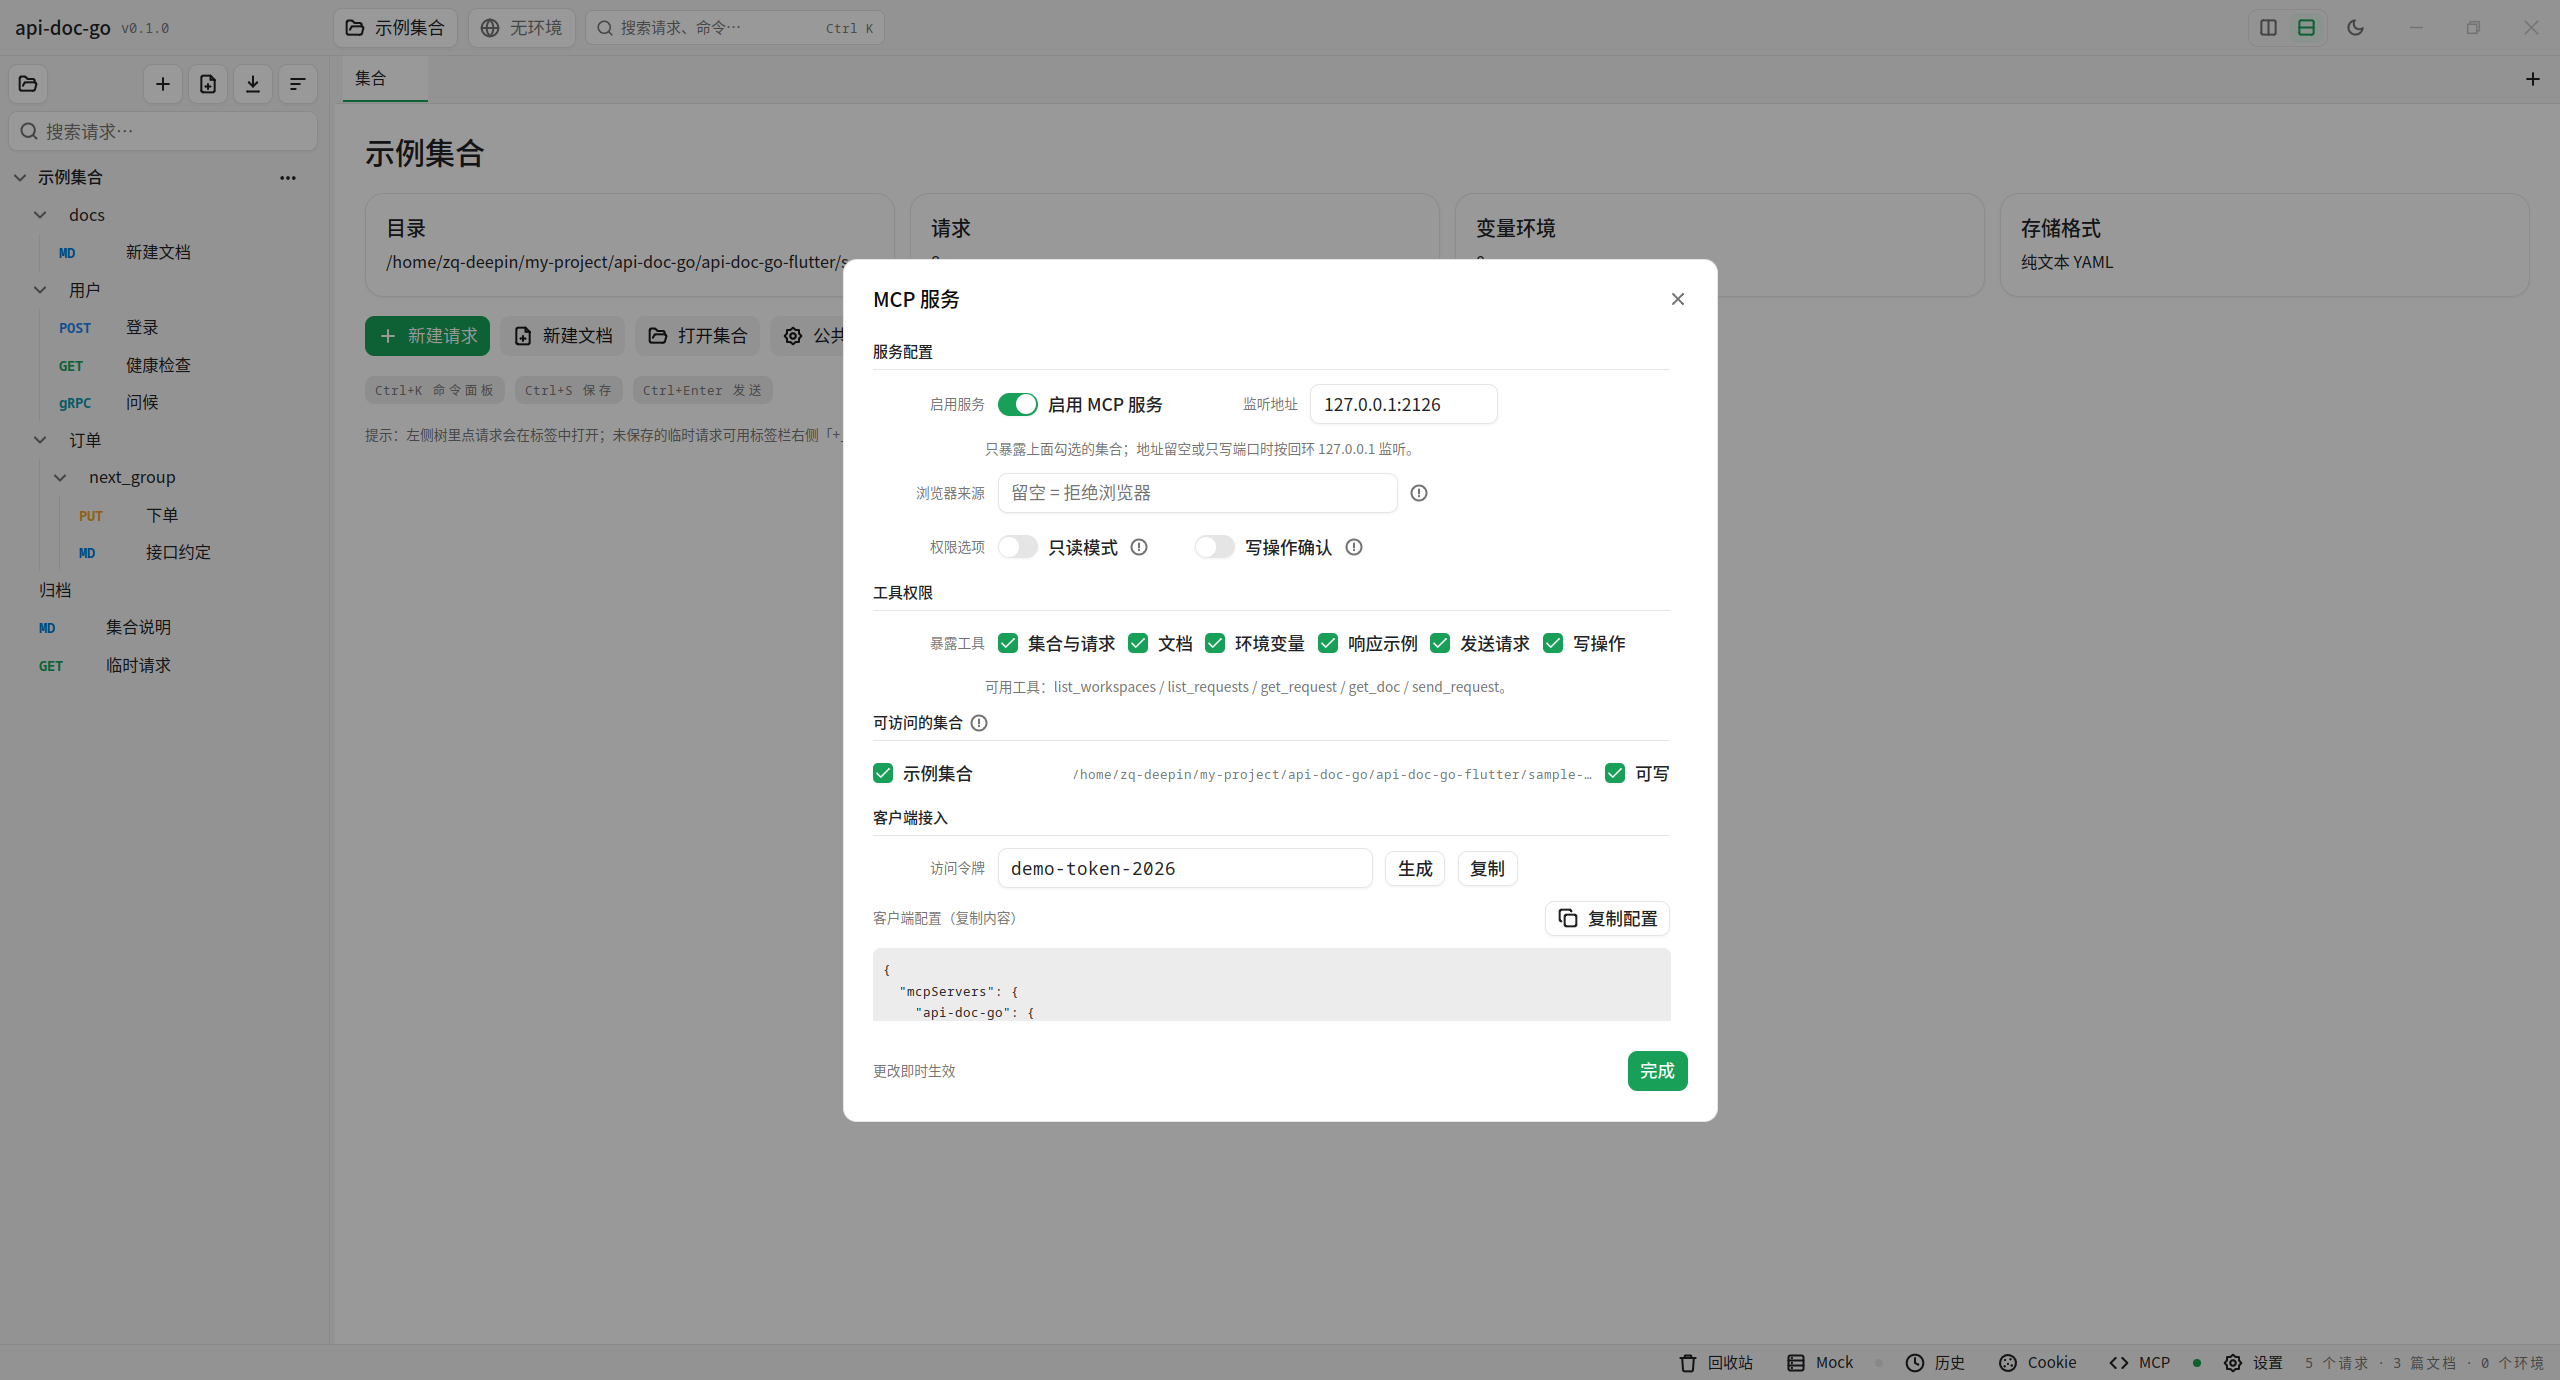
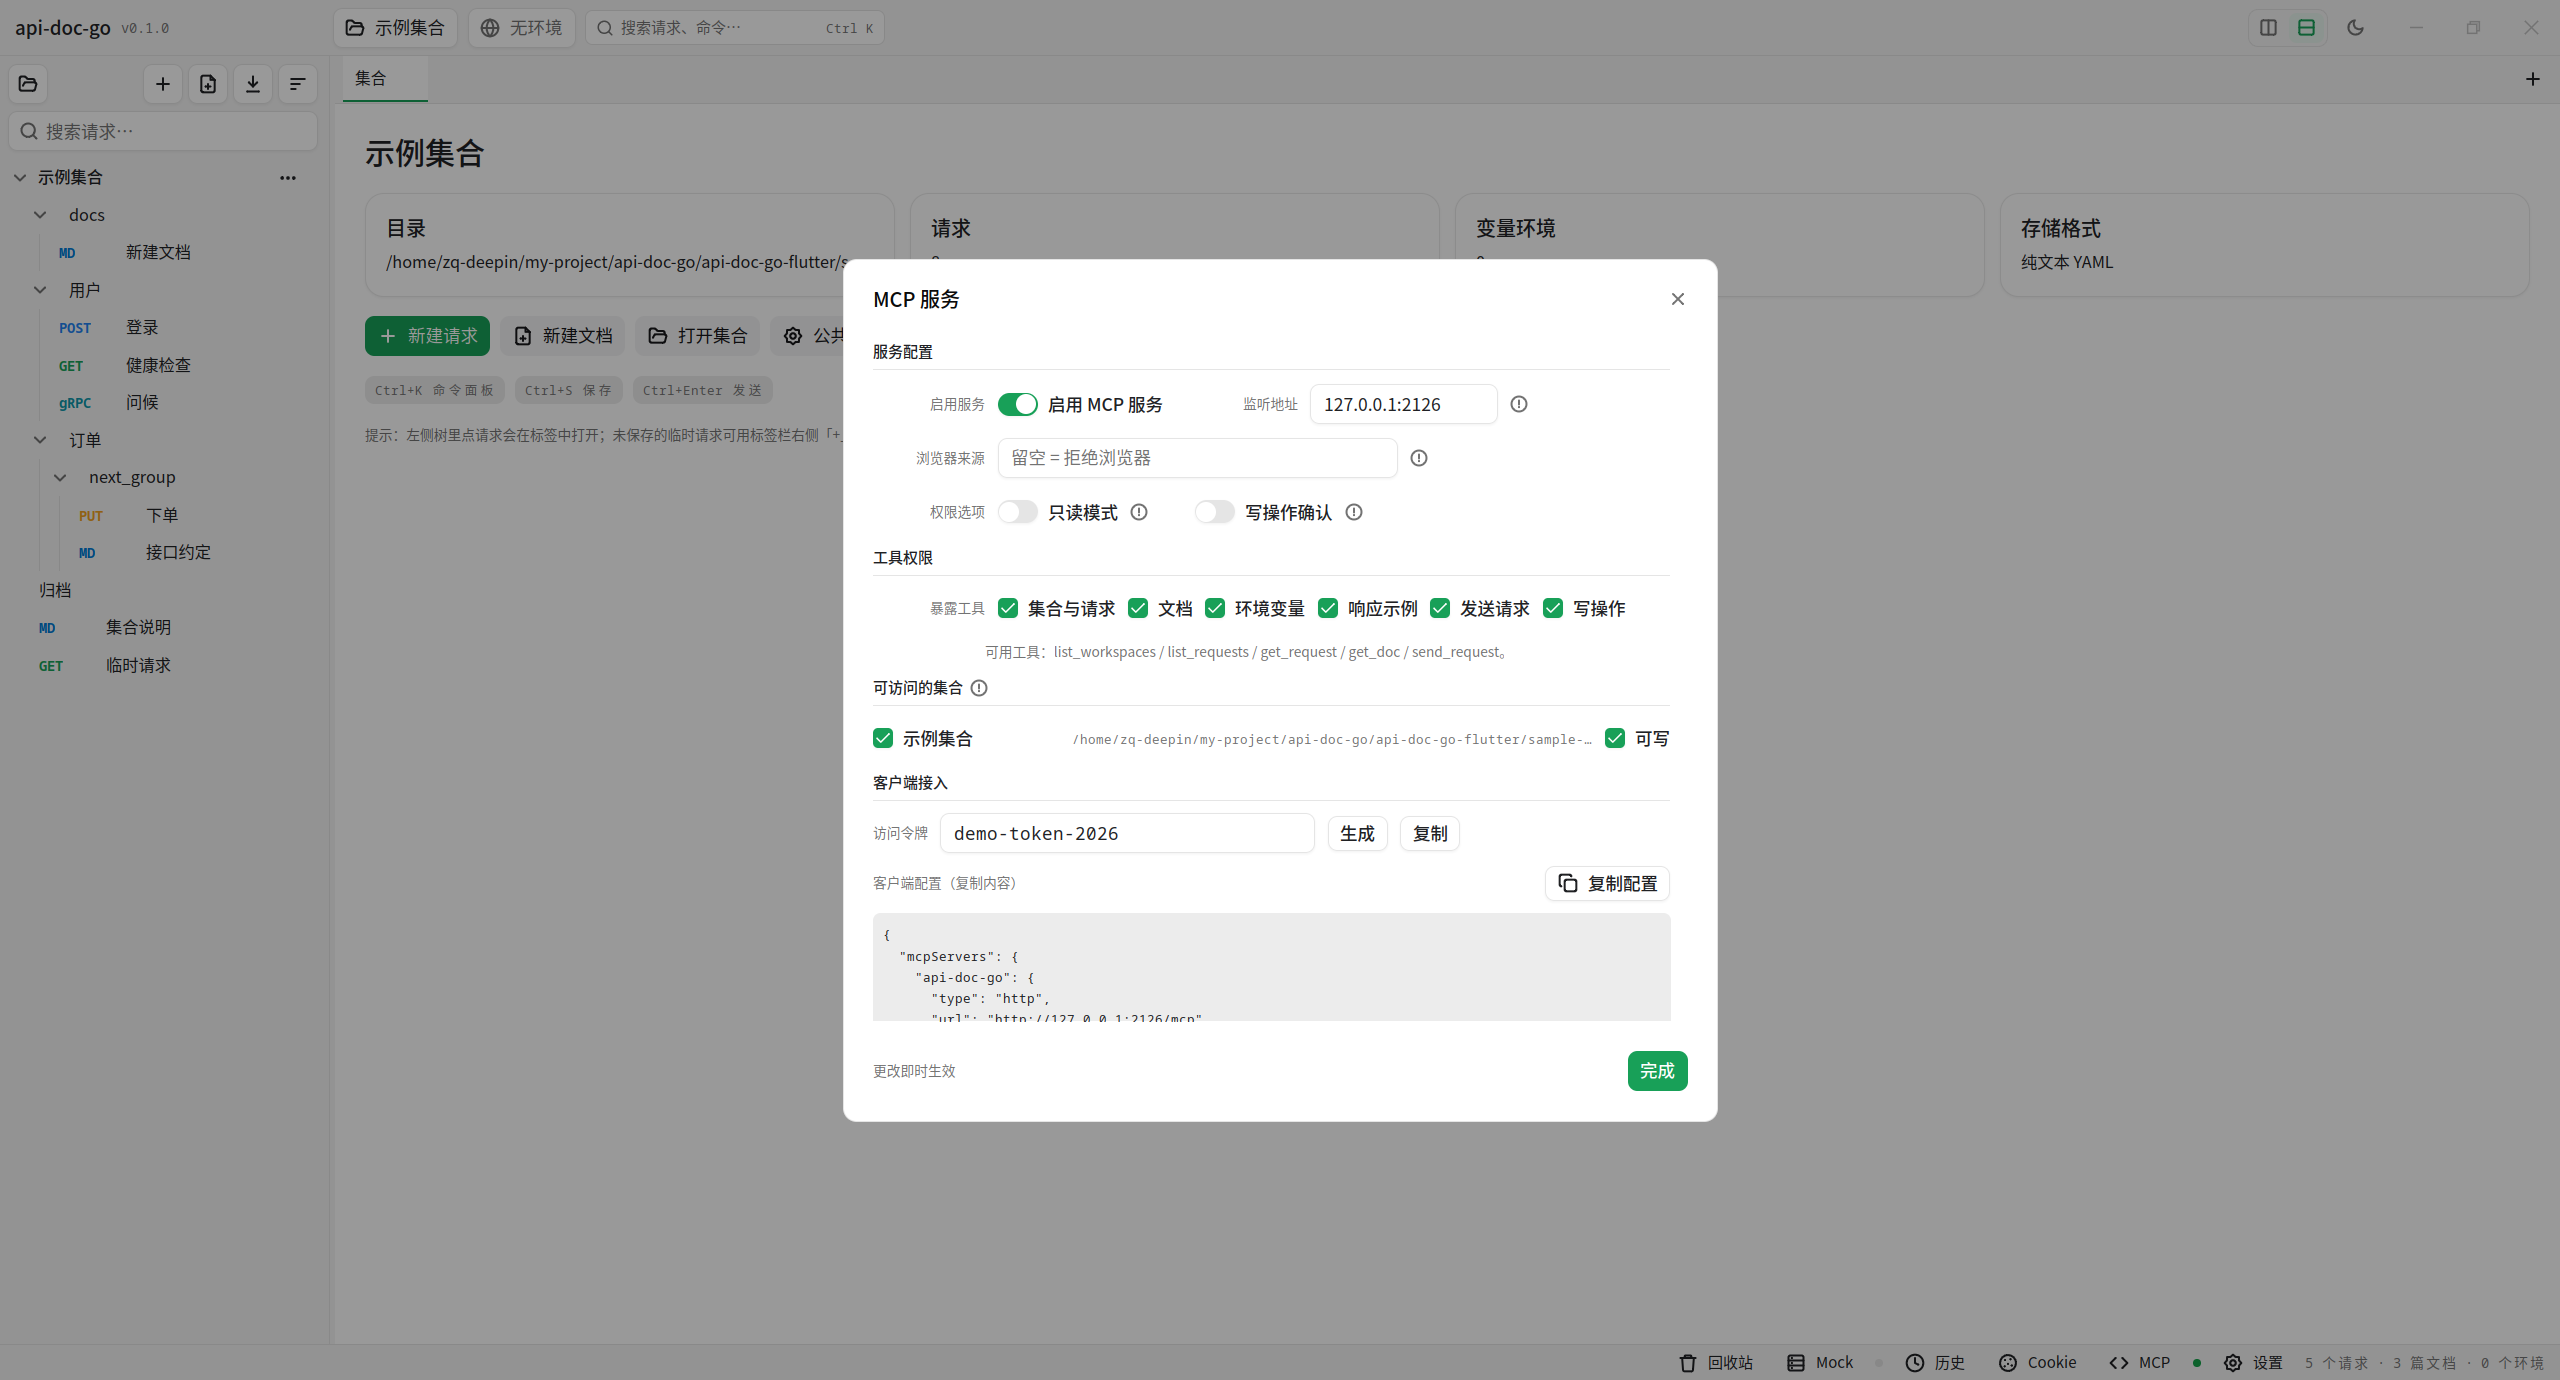
MCP 服务配置：地址说明收进监听地址的 tips，访问令牌行左对齐
- 删掉「只暴露上面勾选的集合；地址留空或只写端口时按回环 127.0.0.1 监听。」
  这一整行常驻说明；后半句（地址留空 / 只写端口的监听约定）改成监听地址输入框
  后面的 ⓘ 气泡。前半句的信息已由「暴露工具」与「可访问的集合」两栏表达
- 「访问令牌」不再挂在 90px 标签列后面，改成内联标签从内容区最左开始，
  与下面的「客户端配置（复制内容）」左边界对齐
- 截图 doc/viva-mcp.png 更新

Changed region(s): [[0.3438, 0.3116, 0.6562, 0.7478], [0.4375, 0.5297, 0.6562, 0.592], [0.5, 0.592, 0.6562, 0.6855]]

diff --git a/internal/view/dialogs.go b/internal/view/dialogs.go
@@ -673,10 +673,10 @@ func (m *Model) mcpDialog(c ui.C) {
 					})
 					ui.TextField(c, &m.ui.mcpAddr, "监听地址", settings.DefaultMCPAddr).
 						Width(px(150)).Changed()
+					hintTip(c, "地址留空或只写端口时按回环 127.0.0.1 监听。")
 					ui.Spacer(c)
 				})
-				// 地址说明紧跟这一行（它讲的是监听地址），浏览器来源紧随其后。
-				m.mcpNote(c, "只暴露上面勾选的集合；地址留空或只写端口时按回环 127.0.0.1 监听。")
+				// 浏览器来源紧跟在「启用服务 / 监听地址」这一栏下面。
 				ui.Row(c).FillWidth().Gap(px(10)).Items(ui.Center).Children(func() {
 					formLabel(c, "浏览器来源")
 					ui.TextField(c, &m.ui.mcpOrigins, "浏览器来源", "留空 = 拒绝浏览器").
@@ -719,8 +719,10 @@ func (m *Model) mcpDialog(c ui.C) {
 
 				// 四、客户端接入：令牌 + 配置 JSON（都指向同一个客户端）。
 				m.mcpSectionTitle(c, "客户端接入")
+				// 这一栏从内容区最左排（与上面的集合列表、下面的客户端配置一致），
+				// 不再缩进到 90px 标签列后面。
 				ui.Row(c).FillWidth().Gap(px(10)).Items(ui.Center).Children(func() {
-					formLabel(c, "访问令牌")
+					ui.Text(c, "访问令牌").FontSize(fs(11)).Muted()
 					ui.TextField(c, &m.ui.mcpToken, "访问令牌", "首次启用时自动生成").
 						Mono().Width(px(300)).Changed()
 					if ui.Button(c, "生成").Outline().Small().
